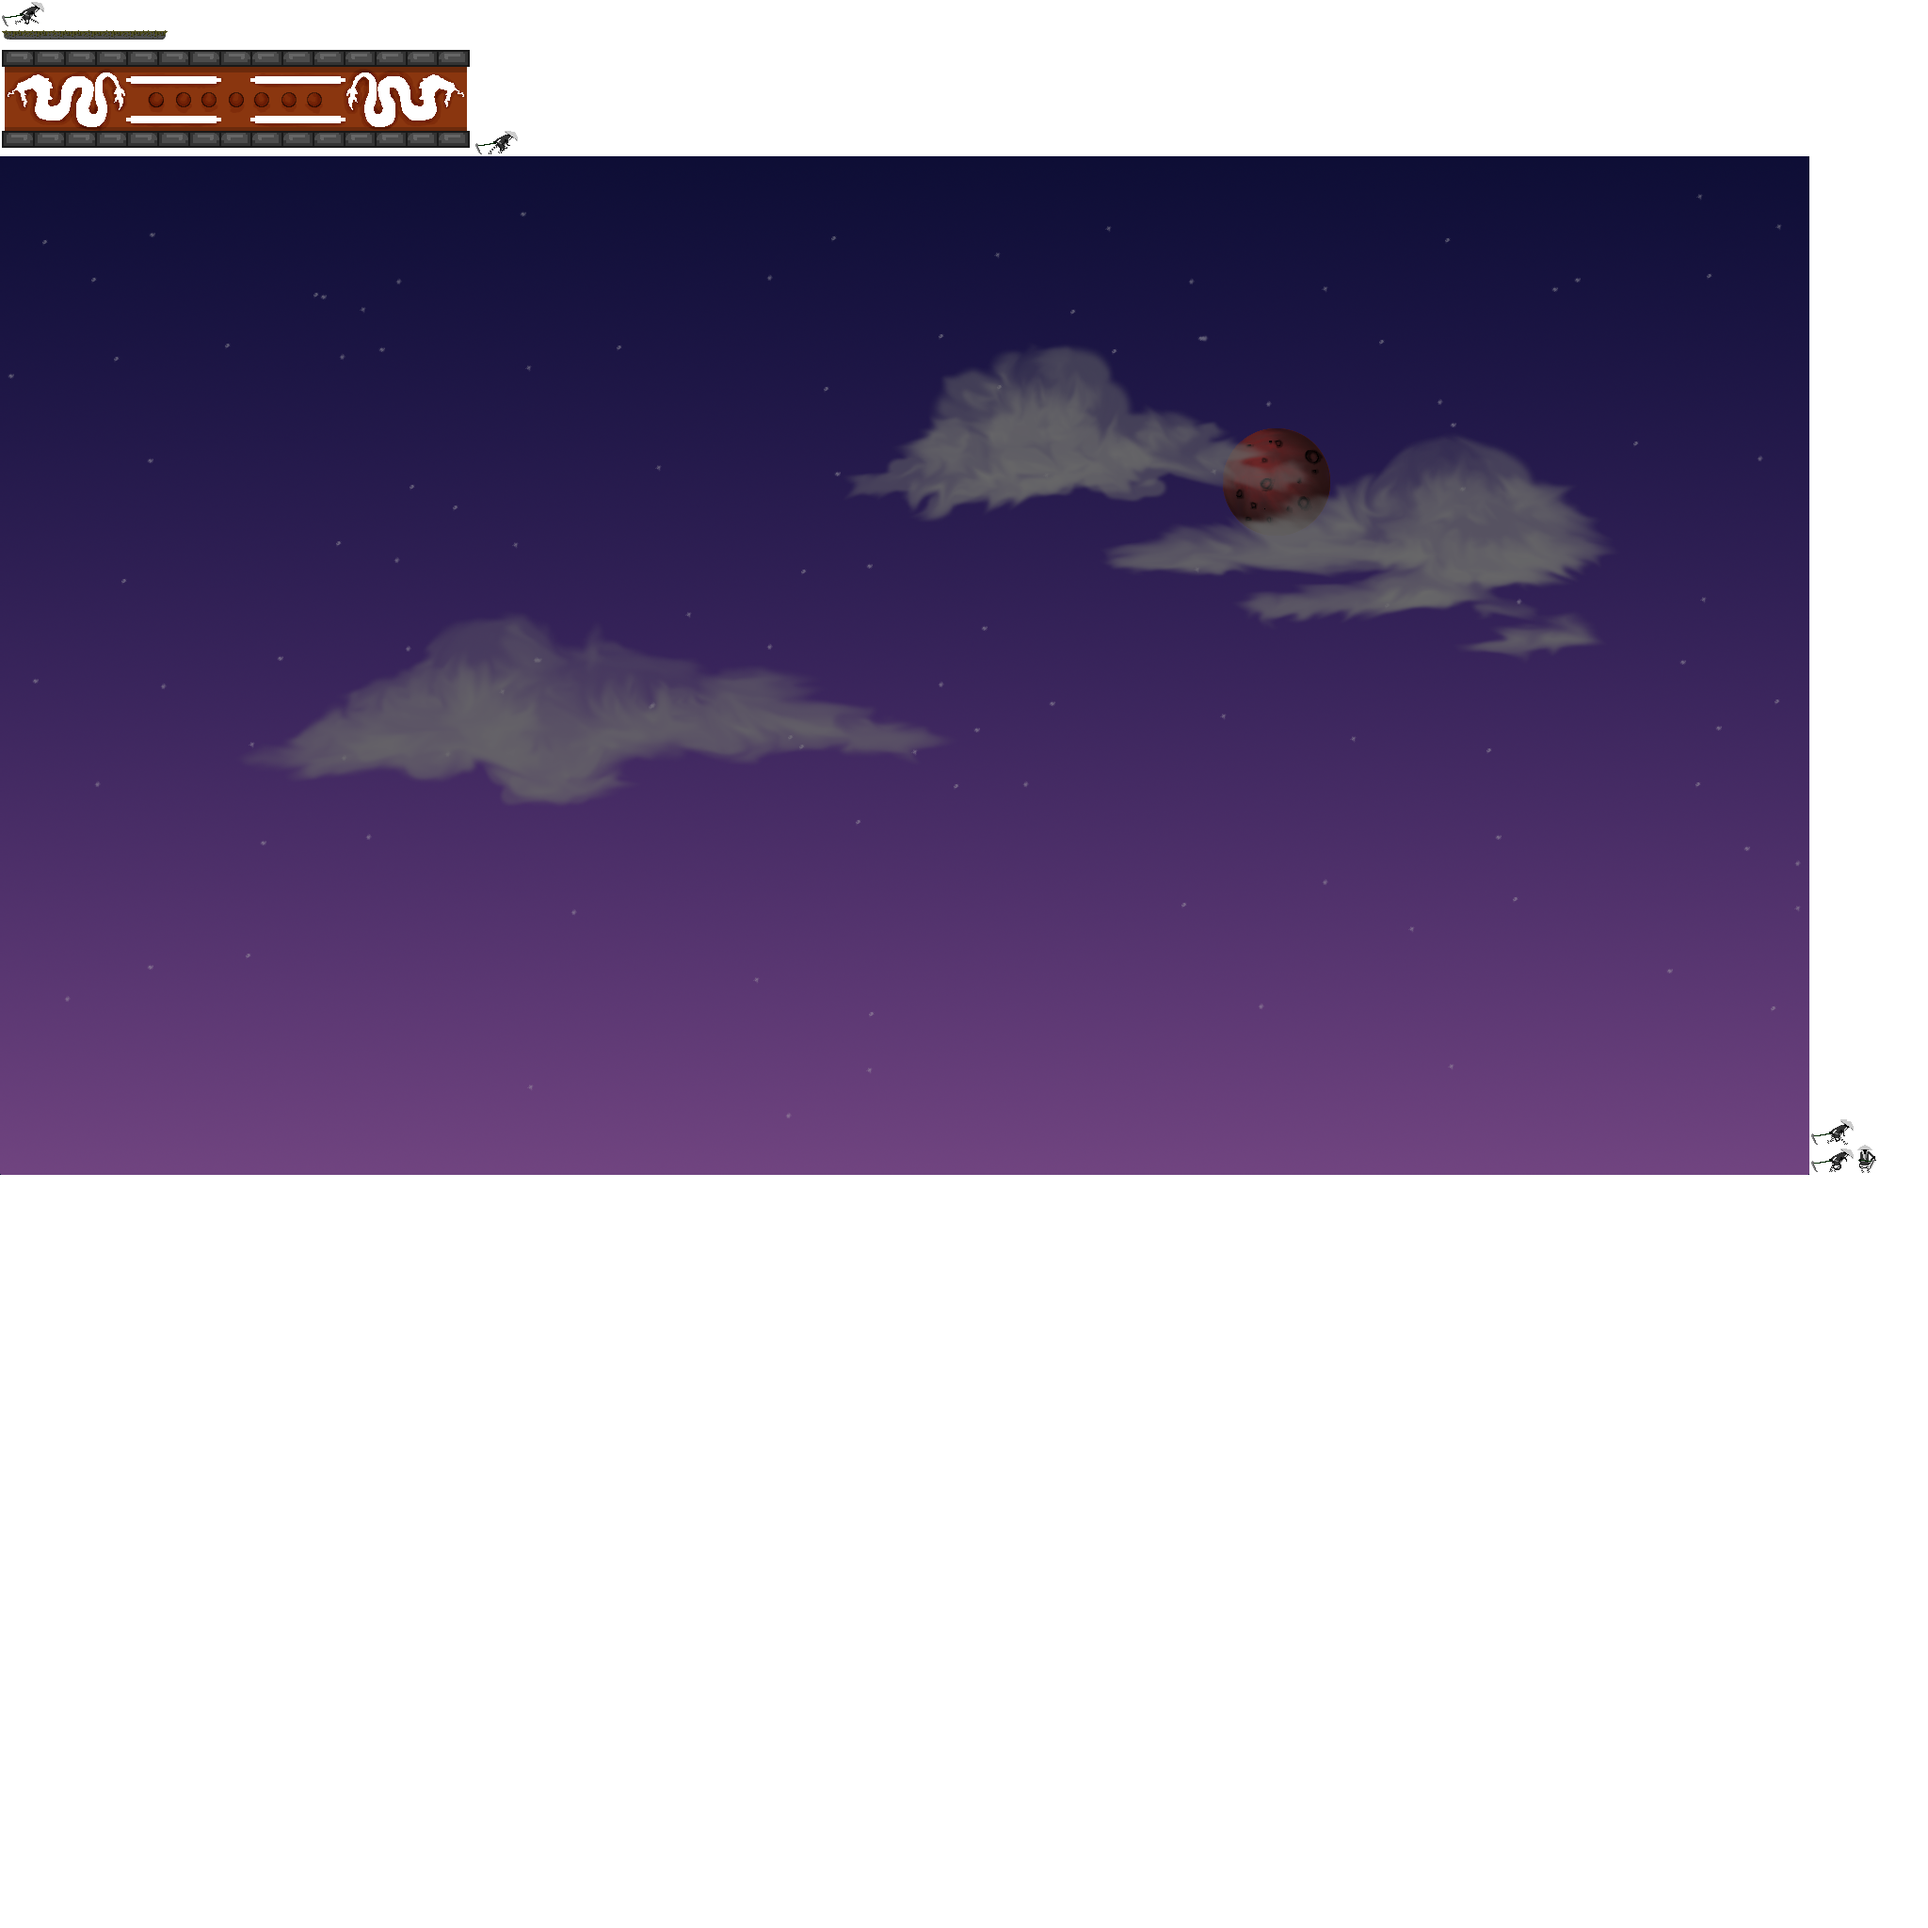
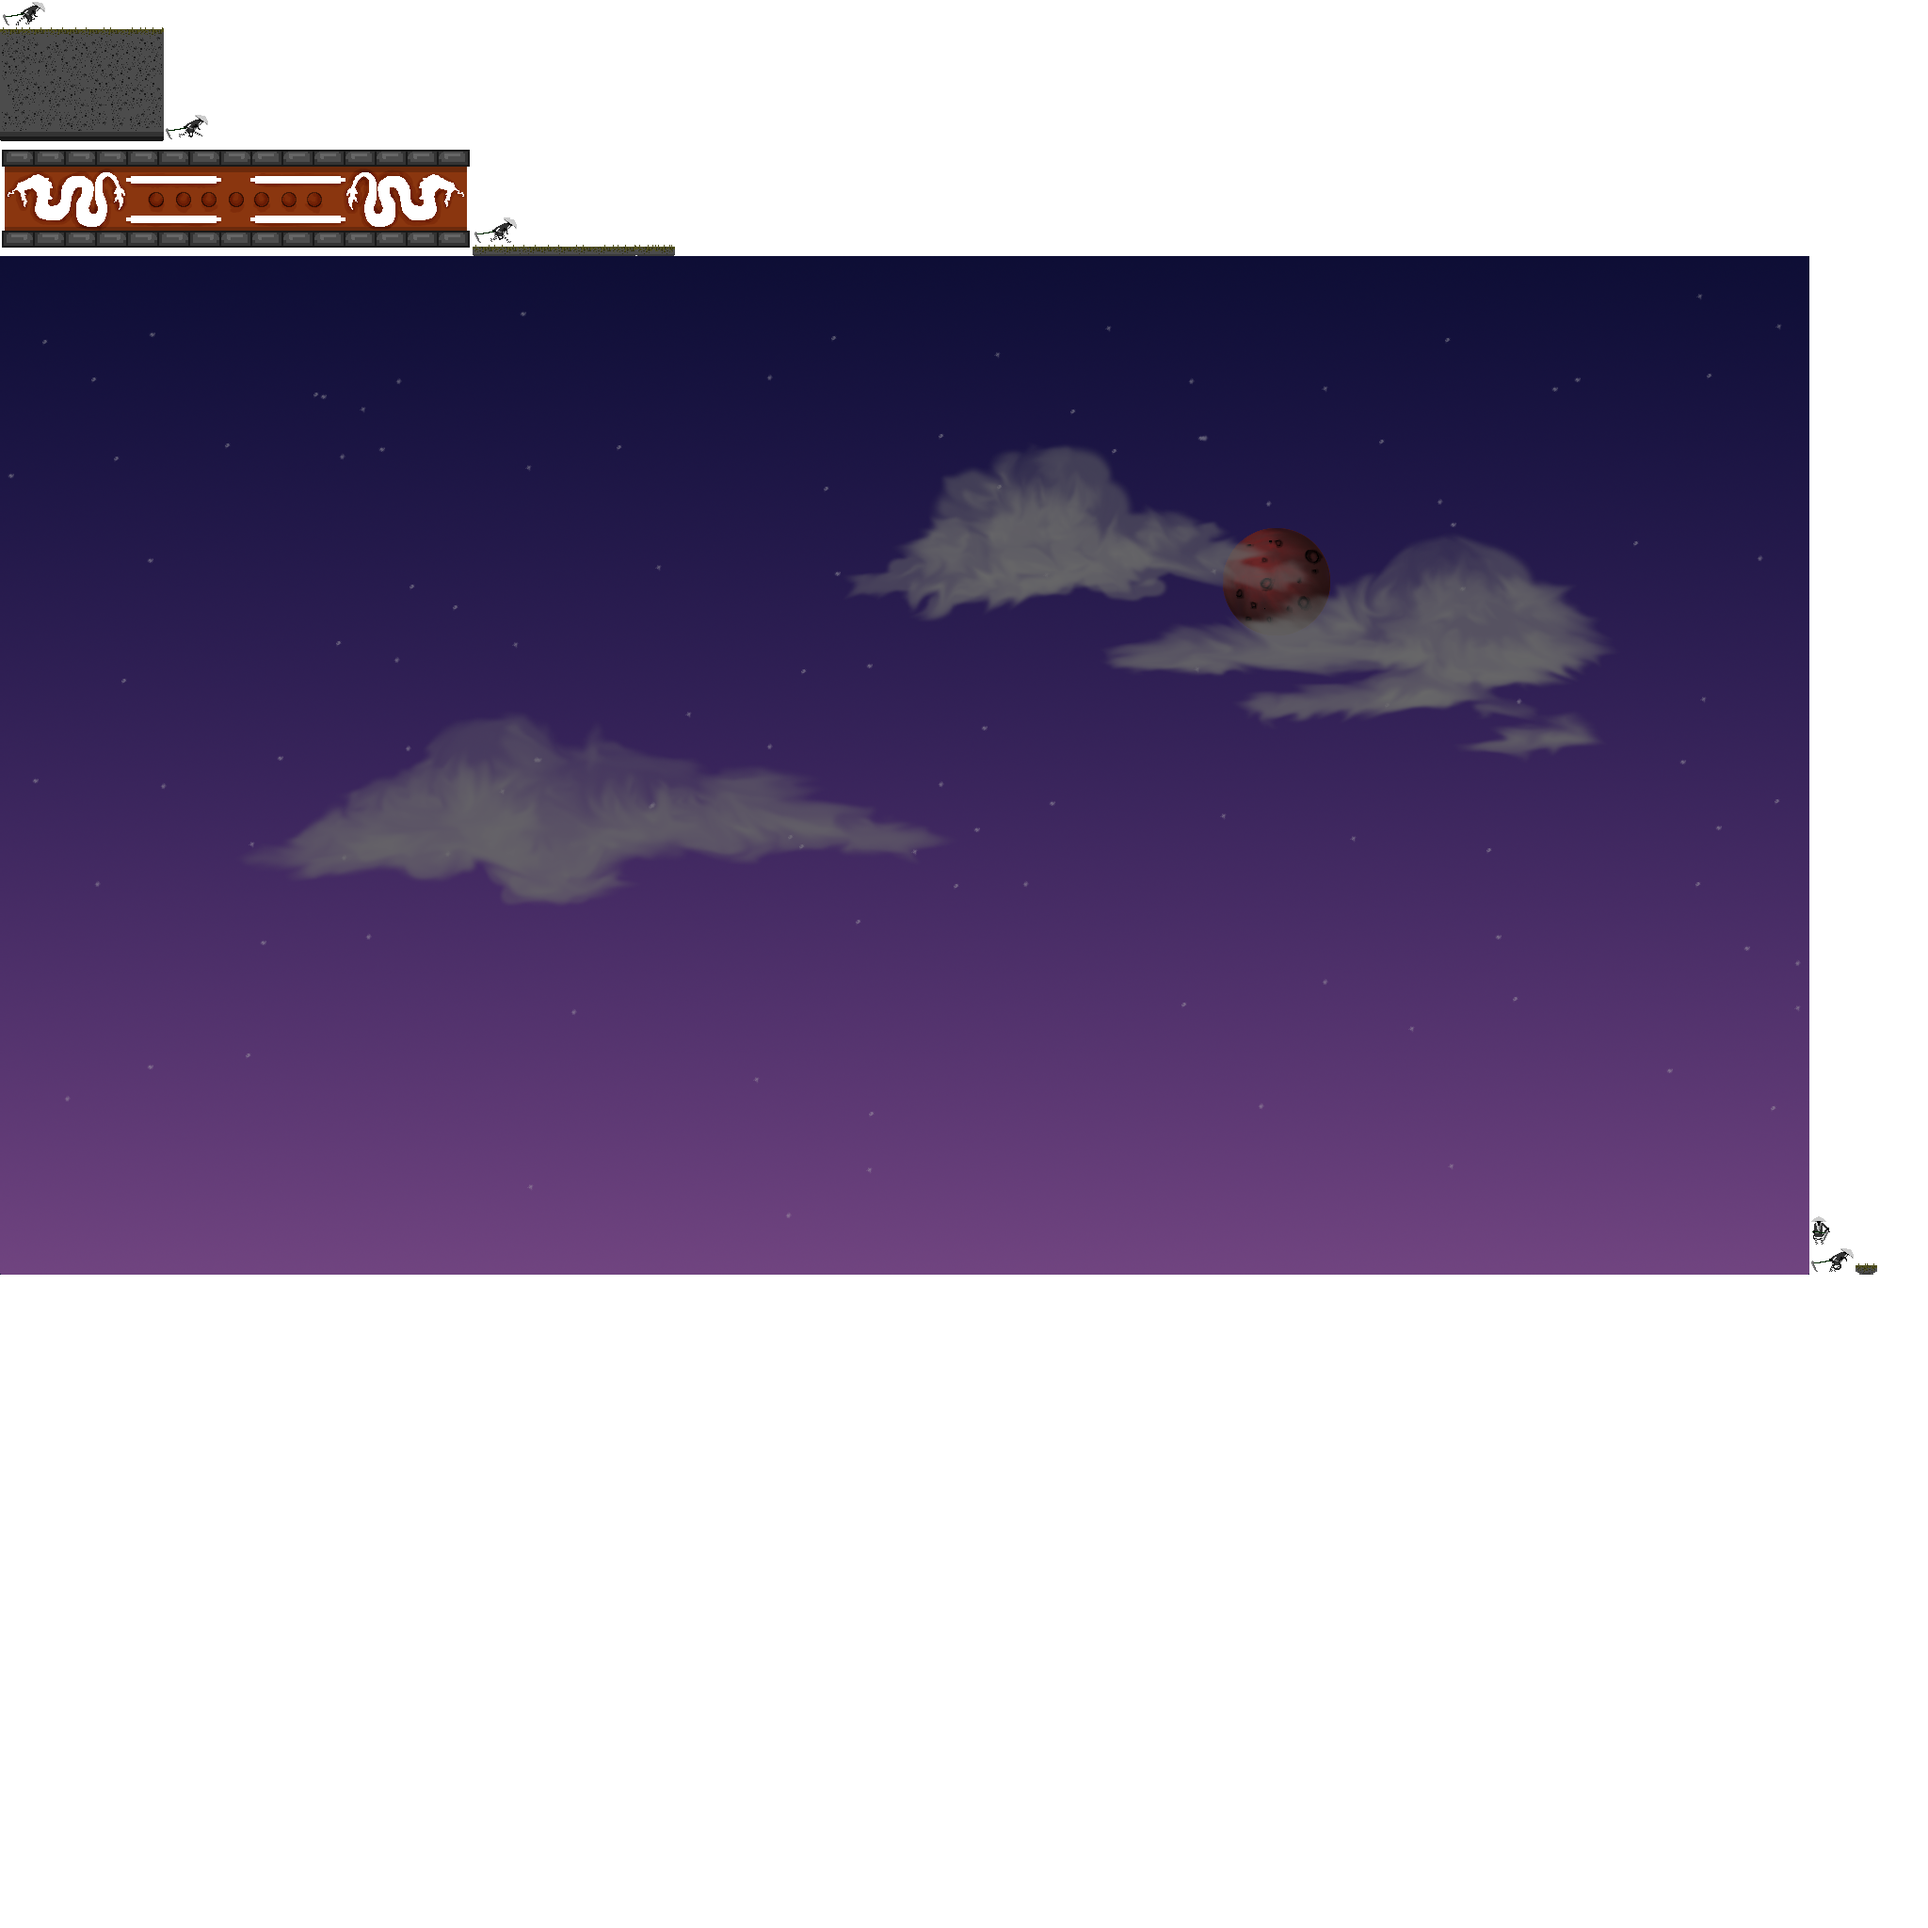
pushed aubreys addition to level editor

Changed region(s): [[0.0, 0.0, 0.9375, 0.4062], [0.0, 0.5938, 0.9688, 0.6875], [0.125, 0.3125, 0.5, 0.4688]]

diff --git a/ProjectRain/src/projectrain/levels/LevelLoader.java b/ProjectRain/src/projectrain/levels/LevelLoader.java
@@ -15,7 +15,12 @@ public class LevelLoader {
 	
 	
 	public enum BLOCK_TYPE{
-		EMPTY(0, 0, 0), PLATFORM(0, 255, 0), PLAYER_SPAWNPOINT(255, 255, 255);
+		EMPTY(0, 0, 0), 
+		PLAYER_SPAWNPOINT(255, 255, 255), 
+		GRASS_PLAT_LONG(0, 255, 0), 
+		GRASS_PLAT_BLOCK_LONG(0,200,0),
+		GRASS_PLAT_SHORT(0,150,0), 
+		GRASS_PLAT_TINY(0,100,0);
 		private int color;
 		private BLOCK_TYPE(int r, int g, int b){
 			
@@ -58,16 +63,35 @@ public class LevelLoader {
 				if(BLOCK_TYPE.EMPTY.sameColor(currentPixel)){
 					//Do nothing
 					
-				//IF PLATFORM
-				}else if(BLOCK_TYPE.PLATFORM.sameColor(currentPixel)){
-					LevelStage.platforms.add(new Platform(pixelX * 356, pixmap.getHeight() - pixelY * 100, 356, 24));
+				//IF GRASS_PLAT_BLOCK_LONG
+				}else if(BLOCK_TYPE.GRASS_PLAT_BLOCK_LONG.sameColor(currentPixel)){
+					LevelStage.platforms.add(new Platform("grass_plat_block_long", pixelX * 1,
+							pixmap.getHeight() - pixelY * 1, 356, 242 ));
+					System.out.println(LevelStage.platforms.size);
+
+				//IF GRASS_PLAT_LONG
+				}else if(BLOCK_TYPE.GRASS_PLAT_LONG.sameColor(currentPixel)){
+					LevelStage.platforms.add(new Platform("grass_plat_long", pixelX * 1,
+							pixmap.getHeight() - pixelY * 1, 356, 24 ));
+					System.out.println(LevelStage.platforms.size);
+
+				//IF GRASS_PLAT_SHORT
+				}else if(BLOCK_TYPE.GRASS_PLAT_SHORT.sameColor(currentPixel)){
+					LevelStage.platforms.add(new Platform("grass_plat_short", pixelX * 1,
+							pixmap.getHeight() - pixelY * 1, 90, 24 ));
+					System.out.println(LevelStage.platforms.size);
+
+				//IF GRASS_PLAT_TINY
+				}else if(BLOCK_TYPE.GRASS_PLAT_TINY.sameColor(currentPixel)){
+					LevelStage.platforms.add(new Platform("grass_plat_tiny", pixelX * 1,
+							pixmap.getHeight() - pixelY * 1, 54, 24 ));
 					System.out.println(LevelStage.platforms.size);
 
 				//IF PLAYER SPAWNPOINT
 				}else if(BLOCK_TYPE.PLAYER_SPAWNPOINT.sameColor(currentPixel)){
 					
 					//Spawn player
-					ScytheMan scytheMan = new ScytheMan(pixelX * 356, pixmap.getHeight() - pixelY * 100, 63, 48);
+					ScytheMan scytheMan = new ScytheMan(pixelX * 1, pixmap.getHeight() - pixelY * 1 , 63, 48);
 					
 					//Track him in these arrays
 					LevelStage.controllableObjects.add(scytheMan);

diff --git a/ProjectRain/src/projectrain/tools/Assets.java b/ProjectRain/src/projectrain/tools/Assets.java
@@ -7,6 +7,7 @@ import com.badlogic.gdx.graphics.g2d.Animation;
 import com.badlogic.gdx.graphics.g2d.TextureAtlas;
 import com.badlogic.gdx.graphics.g2d.TextureAtlas.AtlasRegion;
 import com.badlogic.gdx.utils.Array;
+import com.badlogic.gdx.utils.ArrayMap;
 import com.badlogic.gdx.utils.Disposable;
 
 public class Assets implements Disposable, AssetErrorListener{
@@ -15,6 +16,7 @@ public class Assets implements Disposable, AssetErrorListener{
 	public ScytheMan scytheMan;
 	public Platform platform;
 	public Background nightSky;
+	
 	
 	private Assets(){
 		
@@ -45,9 +47,15 @@ public class Assets implements Disposable, AssetErrorListener{
 		
 	}
 	public class Platform{
-		public final AtlasRegion platform;
+		public final ArrayMap<String, AtlasRegion> platMap; 
+		
 		public Platform(TextureAtlas atlas){
-			platform = atlas.findRegion("platform");
+			platMap = new ArrayMap<String, AtlasRegion>();
+			platMap.put("grass_plat_long", atlas.findRegion("grass_plat_long"));
+			platMap.put("grass_plat_block_long", atlas.findRegion("grass_plat_block_long"));
+			platMap.put("grass_plat_tiny", atlas.findRegion("grass_plat_tiny"));
+			platMap.put("grass_plat_short", atlas.findRegion("grass_plat_short"));
+
 		}
 	}
 	

diff --git a/ProjectRain/src/projectrain/game_objects/terrain/Platform.java b/ProjectRain/src/projectrain/game_objects/terrain/Platform.java
@@ -14,7 +14,12 @@ public class Platform extends AbstractGameObject{
 	}
 	
 	public Platform(float x, float y, float width, float height){
-		image = Assets.instance.platform.platform;
+		image = Assets.instance.platform.platMap.getValueAt((int)(Math.random() * 4));
+
+		init(x, y, width, height);
+	}
+	public Platform(String platType, float x, float y, float width, float height){
+		image = Assets.instance.platform.platMap.get(platType);
 
 		init(x, y, width, height);
 	}
@@ -24,7 +29,7 @@ public class Platform extends AbstractGameObject{
 		//set basic vectors of position, dimension and bounds for collision
 		position.set(x, y);
 		dimension.set(width, height);
-		bounds.set(position.x, position.y, dimension.x, dimension.y - dimension.y / 5);
+		bounds.set(position.x, position.y, dimension.x, dimension.y - 8);
 	}
 	
 	@Override
